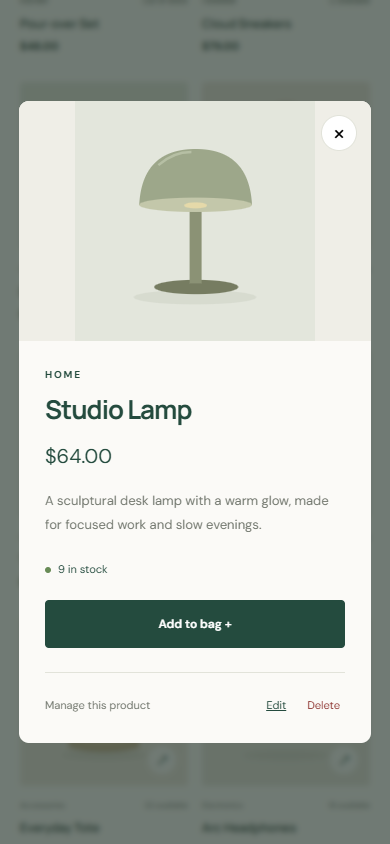
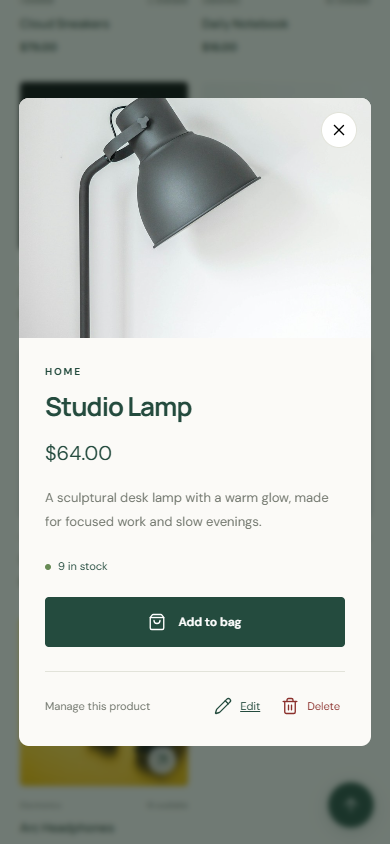
docs: refresh catalog, animation and category documentation with new screenshots

diff --git a/README.md b/README.md
@@ -9,13 +9,16 @@ A Vue storefront and Express API with a persistent PostgreSQL catalog. Browse, s
 ## What works
 
 - Reactive product loading with loading, error, retry, and empty states.
-- Instant search across product names, descriptions, and categories.
-- Category filters and price/name sorting.
-- Product details in a keyboard-accessible native dialog, including Escape-to-close and focus restoration.
-- Product creation, editing, and confirmed deletion; changes appear in the catalog immediately.
+- Animated search, category filtering, and price/name sorting with AutoAnimate.
+- Animated product details in a keyboard-accessible native dialog, including Escape-to-close and focus restoration.
+- Motion-powered scrolling to the collection and back to top, plus a floating back-to-top button.
+- Reduced-motion preferences respected by both animation libraries.
+- Product creation, editing, and confirmed deletion, with success feedback.
+- Database-backed category selection and category creation with automatically generated IDs.
 - Validation in the form and API, including non-negative prices and whole-number stock quantities.
-- Product images from URLs, bundled illustrations, and a fallback for missing/broken images.
-- A browser-persisted shopping bag with quantity controls, stock limits, removal, and subtotal.
+- Locally bundled product photography, URL support, and a fallback for missing/broken images.
+- A browser-persisted shopping bag with quantity controls, stock limits, prominent red removal buttons, and subtotal.
+- Consistent Lucide icons for navigation, bag actions, search, editing, deletion, and scrolling.
 - Bag prices and stock are refreshed from the API when opening the bag.
 - Responsive desktop and mobile layouts.
 
@@ -54,7 +57,9 @@ macOS/Linux:
 cp server/.env.example server/.env
 ```
 
-The example enables `SEED_DEMO=true`, which inserts eight sample products **only when the catalog is empty**. Set it to `false` to start an empty catalog. Seeding never overwrites existing products.
+The example enables `SEED_DEMO=true`, which installs **21 demo products across seven categories, three per category**. Set it to `false` to start an empty catalog. Category IDs are generated by PostgreSQL.
+
+Demo seeding is versioned and runs once. Existing untouched samples from the earlier eight-product catalog receive photo updates; edited or custom products are preserved. Restarting the API does not restore demo products you deleted. To upgrade an existing local demo, start the API once with `SEED_DEMO=true`.
 
 ### 2. Start the API
 
@@ -91,7 +96,7 @@ Open **http://127.0.0.1:5173**. The Vite development server forwards `/api` requ
 | --- | --- | --- |
 | `PORT` | `5000` | API port; the API binds to the local loopback interface |
 | `DATA_DIR` | `server/data` | Persistent embedded PostgreSQL directory |
-| `SEED_DEMO` | `false` in code; `true` in the example | Seed sample products when the catalog is empty |
+| `SEED_DEMO` | `false` in code; `true` in the example | Apply the versioned demo-catalog migration once |
 | `DB_CONNECTION_STRING` | Unset | Use an existing PostgreSQL server instead of PGlite |
 | `CLIENT_ORIGIN` | `http://localhost:5173` | Allowed origin for direct browser-to-API requests |
 | `VITE_API_URL` | `/api` | Frontend API base URL, set at build time |
@@ -114,6 +119,7 @@ The schema in `server/db/schema.sql` is applied at startup. The API uses paramet
 | Layer | Libraries |
 | --- | --- |
 | UI | Vue 3.5.44, Vue Router 5.4.0 |
+| Motion & icons | AutoAnimate 0.10.0, Motion 14.2.0, Lucide Vue 1.57.0 |
 | Development/build | Vite 8.3.4, Vue plugin 6.0.10 |
 | API | Express 5.3.0, Joi 18.2.9, Helmet 8.3.0, CORS 2.8.6 |
 | Data | PGlite 0.5.10 locally; pg 8.23.1 for external PostgreSQL |
@@ -122,7 +128,7 @@ The schema in `server/db/schema.sql` is applied at startup. The API uses paramet
 
 The old Vue CLI, native `node-sass`, Bootstrap/jQuery integration, and disconnected Elasticsearch code were removed. Search uses the catalog's SQL query on the API and immediate filtering of the loaded catalog in the UI.
 
-Product illustrations are original SVG assets bundled in `client/public/images/`. Google Fonts provides DM Sans and Manrope, with local font fallbacks when unavailable.
+Product photos are bundled locally in `client/public/images/`, so the demo does not depend on an image CDN at runtime. Source URLs and providers (Unsplash and DummyJSON) are recorded in [sources.json](client/public/images/sources.json). These are sample product photos for the portfolio catalog. The original SVG placeholder remains available for custom products without an image. Google Fonts provides DM Sans and Manrope, with local font fallbacks when unavailable.
 
 ## API
 
@@ -131,6 +137,8 @@ All product endpoints return JSON except successful deletion.
 | Method | Route | Result |
 | --- | --- | --- |
 | GET | `/health` | Database health |
+| GET | `/categories` | Categories with database-generated IDs |
+| POST | `/categories` | Create/select a category by name; body `{"name":"Lighting"}` |
 | GET | `/products?q=lamp` | Product list, optionally searched |
 | GET | `/products/:id` | Single product |
 | POST | `/products` | Create product (`201`) |
@@ -145,7 +153,6 @@ Create/update body:
 {
   "product_name": "Ceramic Serving Bowl",
   "product_description": "A handmade ceramic bowl for daily use.",
-  "category_name": "Kitchen",
   "category_id": 7,
   "price": 32.5,
   "quantity": 3,
@@ -153,7 +160,9 @@ Create/update body:
 }
 ```
 
-`img_url` accepts HTTP/HTTPS URLs, bundled `/images/name.svg` paths, or an empty string. The application loads external images in the browser; it does not download them on the server. Image uploads are not implemented.
+`category_id` must refer to a record returned by `GET /categories`. The API resolves its name from the database; a manually supplied category name is ignored. Category IDs are generated by PostgreSQL. The form never asks you to enter an ID. Use the ID returned by your database when trying the sample request.
+
+`img_url` accepts HTTP/HTTPS URLs, bundled `/images/` paths ending in `.svg`, `.jpg`, `.webp`, or `.png`, or an empty string. External images added through the form load directly in the browser. Image uploads are not implemented.
 
 Malformed input returns `400`; missing products return `404`; unexpected failures return `500` with a readable message.
 
@@ -166,7 +175,7 @@ cd server
 npm test
 ```
 
-It creates an isolated temporary database and verifies seeding, CRUD, search, invalid inputs, missing IDs, persistence after reopening the database, and repeated deletion. It does not use your local catalog.
+The two integration tests use isolated temporary databases. They verify three products per category, generated category IDs, unknown-category rejection, CRUD, search, invalid inputs, persistence after reopening, and repeated deletion. They also migrate the earlier catalog, check that edited records survive, and confirm deleted demo products are not reseeded. They do not use your local catalog.
 
 Production build:
 
@@ -186,6 +195,8 @@ Checked on Windows with Node 24.15.0 and npm 12.2.0:
 - Browser checks passed for loading, search/no results, categories, sorting, sold-out products, dialog dismissal, bag quantity/subtotal/persistence/removal, creation, editing, and cancelled/confirmed deletion.
 - Simulated catalog failures, retry, empty catalogs, invalid prices, and failed saves preserving form input were checked.
 - Mobile layout checked at 390 × 844 with no horizontal overflow.
+- All 21 product photos loaded successfully; animation checks covered sorting, filtering/search, the overlay, back-to-top scrolling, and reduced-motion preferences.
+- Category selection/creation and the size/color of the bag removal control were checked in the browser.
 
 ## Screenshots
 
